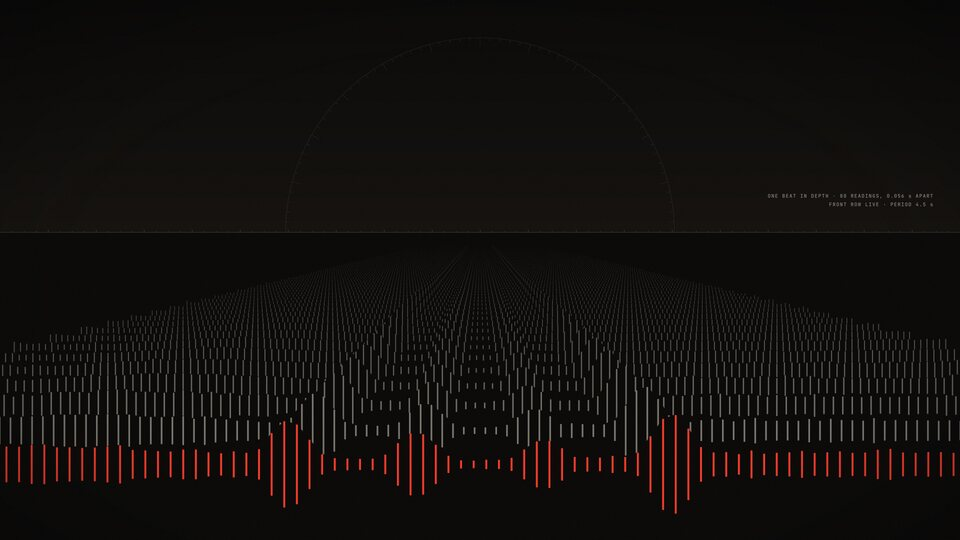
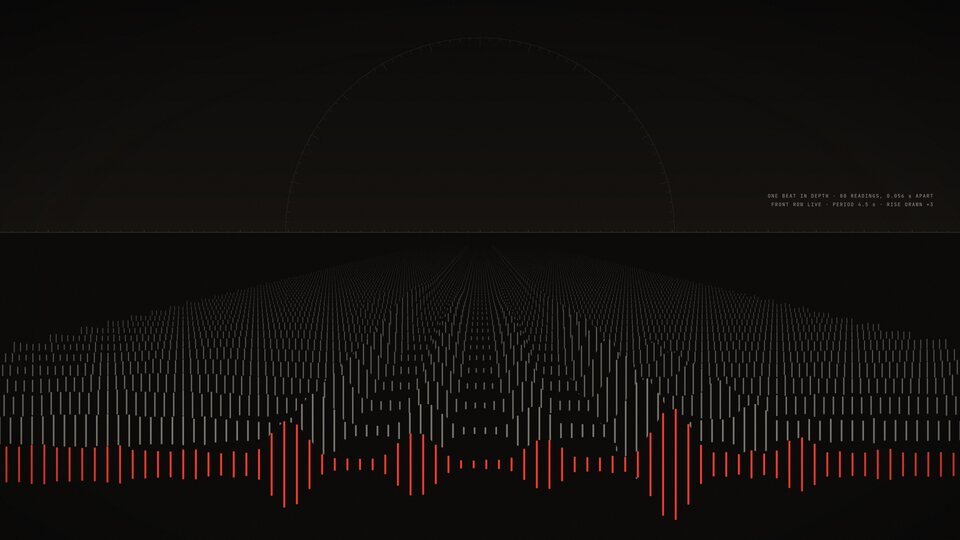
Fix the design-critique findings (v1.0.1)
- Popups and tooltips are 92% ground when frosted (the panel stays three
  quarters): over a dark window, Paper's launcher drifted to #c3c1bd and
  failed AA for small gray text. Measured live after: #e5e2de.
- Plasma's buttons, text fields and tabs get the same glass as the apps; the
  active tab carries the ember index tick instead of a full-width underline.
  Margins match Breeze's, so no layout moves.
- Carbon's gunmetal selection is a step brighter (#5d636c) for Oxygen.
- Ink turns off Oxygen's window gradient, which browned the ink; install.sh
  saves and restores the setting.
- Horizon draws the beat's rise 3x and says so in its caption.
- README: Oxygen's unfocused-selection dimming and plain default button are
  documented as known limitations.

diff --git a/README.md b/README.md
@@ -36,7 +36,7 @@ These previews are illustrations drawn from the theme's own palette and geometry
 | Exposure | Horizon |
 |---|---|
 | ![Exposure](docs/wallpaper-exposure.jpg) | ![Horizon](docs/wallpaper-horizon.jpg) |
-| One beat of the mark photographed 96 times over 1.6 s, 8 px apart, resolving into the mark at rest | One beat in depth: 80 readings 0.056 s apart, receding to a horizon. The front row is live |
+| One beat of the mark photographed 96 times over 1.6 s, 8 px apart, resolving into the mark at rest | One beat in depth: 80 readings 0.056 s apart, receding to a horizon, with the rise drawn 3× (as its caption says). The front row is live |
 | **Field** | **Carbon** |
 | ![Field](docs/wallpaper-field.jpg) | ![Carbon](docs/wallpaper-carbon.jpg) |
 | A frozen waterfall, 240 × 128 of the mark's bars, with the mark cleaned out of the noise | Exposure over a fine carbon-fiber weave |
@@ -90,6 +90,15 @@ Everything installs under `~/.local/share` for the current user, so there's no s
 | `--launcher-icon` | Put the mark on the application launcher |
 | `--restore` | Put back what was active before the first `--apply` |
 | `--uninstall` | Restore, then remove every installed file. Fetched fonts are left in place |
+
+## Known limitations
+
+Both come from Oxygen's widget style, so a color scheme can't change them. `--style breeze` avoids both, at the
+cost of the glass.
+
+- In a list that doesn't have keyboard focus, Oxygen dims the selection to about 40% (roughly 1.3–1.5:1 against
+  the list). The focused selection is full strength: 3.5:1 in Ink, 5.2:1 in Paper and 3.7:1 in Carbon.
+- Oxygen doesn't fill the default button in a dialog, so "OK" and "Cancel" look alike. Breeze fills it.
 
 ## How it's built
 
